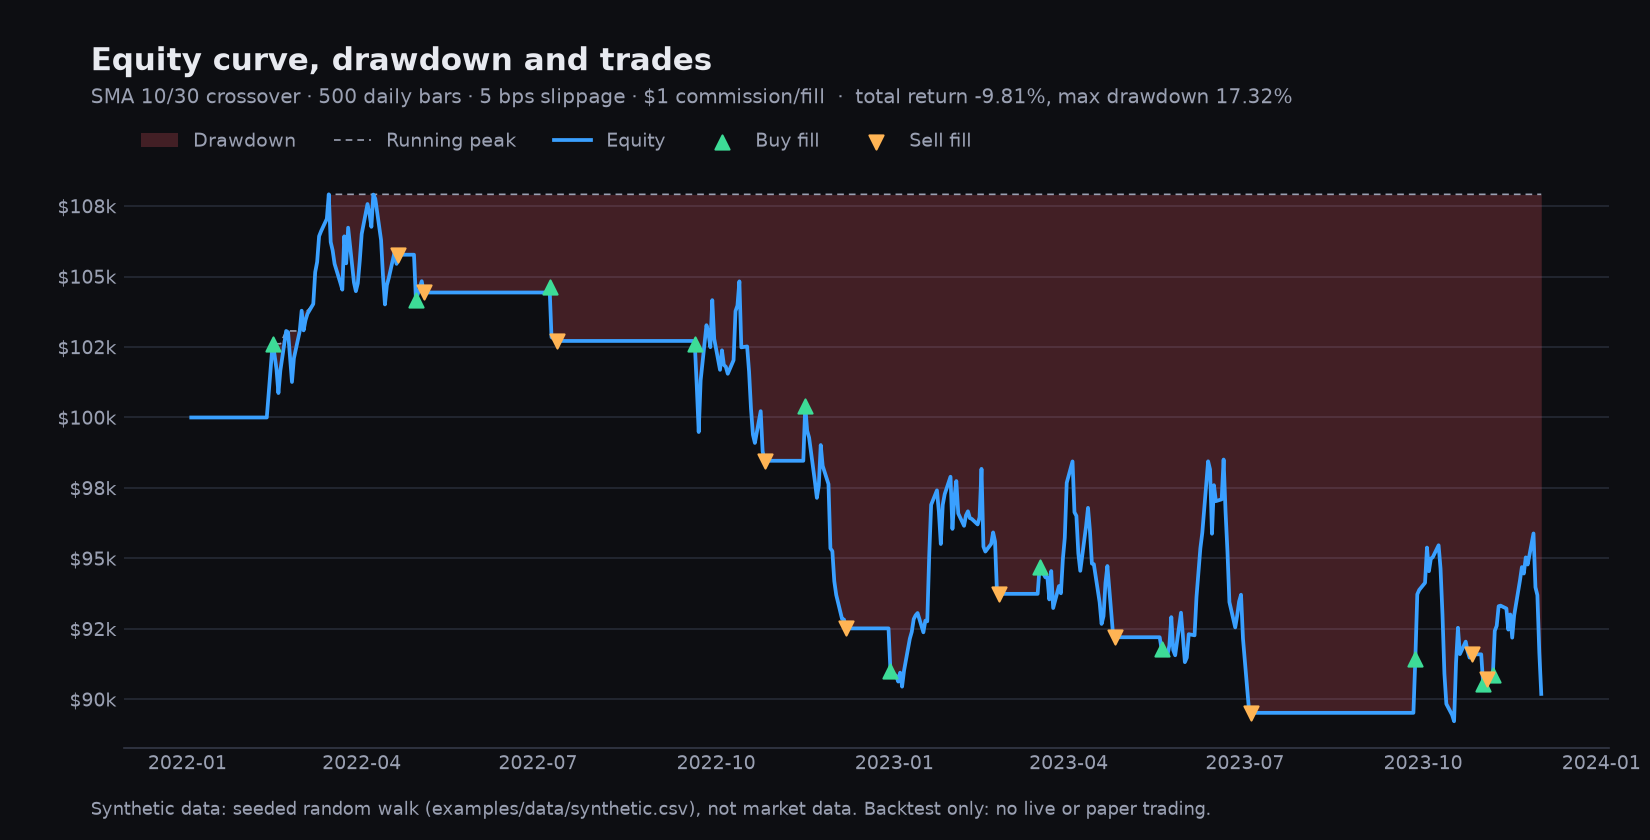
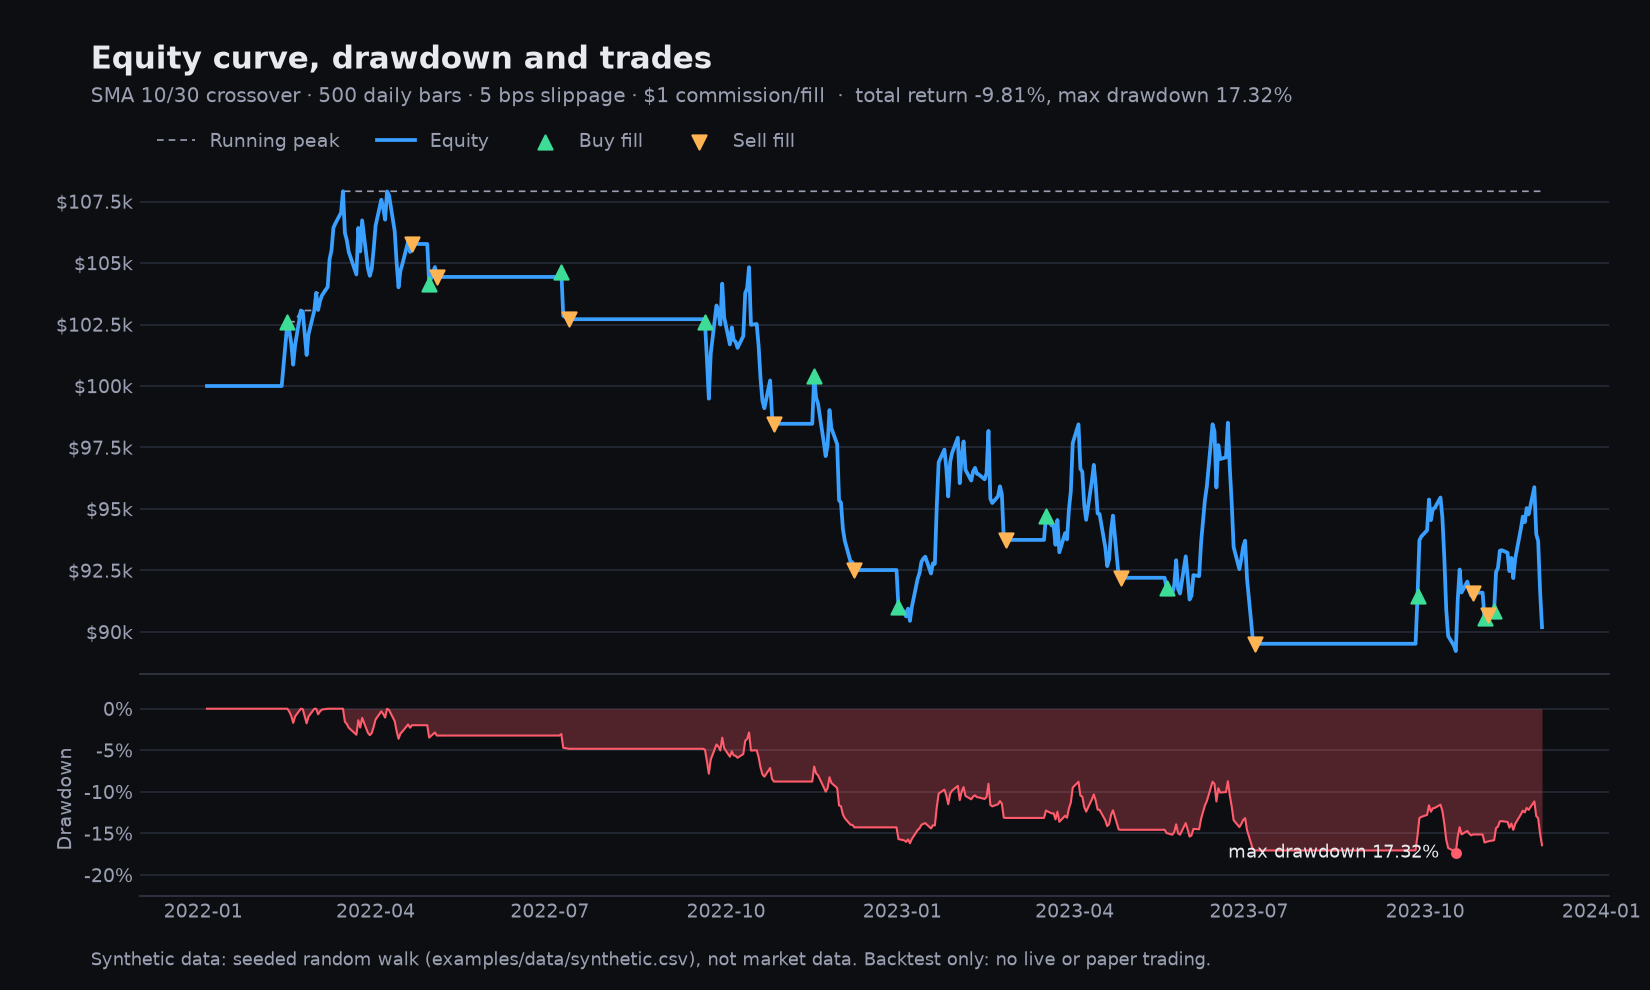
Add drawdown panel, determinism tests and document conventions
- Equity figure gets a separate underwater drawdown panel (asserted to
  agree with compute_metrics' max drawdown) and exact $k tick labels
  (ticks at 102.5k were labelled "$102k").
- tests/test_determinism.py: repeated engine runs, CSV vs in-memory
  feeds and two CLI runs into one SQLite file are identical.
- README and tutorial: margin-free shorts, no end-of-data liquidation,
  inclusive dates, CSV errors, annualisation conventions, and an
  explicit "past results do not predict future results".

Claude-Session: https://claude.ai/code/session_01A42wbaQJVk97N5TsWqXP4G

diff --git a/scripts/make_figures.py b/scripts/make_figures.py
@@ -110,16 +110,41 @@ def fmt_metric_rows(m: Metrics, ending_equity: float) -> list[tuple[str, str]]:
     ]
 
 
+def _money_k(x: float, _pos: object = None) -> str:
+    """Tick label in $k, with a decimal only when the tick needs one."""
+    k = x / 1000
+    return f"${k:,.0f}k" if abs(k - round(k)) < 1e-9 else f"${k:,.1f}k"
+
+
+def _style_axis(ax, c) -> None:
+    ax.set_facecolor(c["bg"])
+    ax.grid(axis="y", color=c["grid"], lw=0.8)
+    ax.set_axisbelow(True)
+    for s in ("top", "right", "left"):
+        ax.spines[s].set_visible(False)
+    ax.spines["bottom"].set_color(c["edge"])
+    ax.tick_params(colors=c["muted"], labelsize=9, length=0)
+
+
 def equity_figure(theme: str, dates, equity, fills, m: Metrics, out: Path) -> None:
     c = THEMES[theme]
-    fig, ax = plt.subplots(figsize=(11, 5.6), dpi=150, facecolor=c["bg"])
-    ax.set_facecolor(c["bg"])
+    fig, (ax, ax_dd) = plt.subplots(
+        2,
+        1,
+        figsize=(11, 6.6),
+        dpi=150,
+        facecolor=c["bg"],
+        sharex=True,
+        gridspec_kw={"height_ratios": [3, 1.15], "hspace": 0.08},
+    )
     peak = []
     hi = equity[0]
     for v in equity:
         hi = max(hi, v)
         peak.append(hi)
-    ax.fill_between(dates, equity, peak, color=c["dd"], alpha=0.22, lw=0, label="Drawdown")
+    # Same definition as compute_metrics: fall from the running peak, in %.
+    drawdown = [(v - p) / p * 100 for v, p in zip(equity, peak, strict=True)]
+
     ax.plot(dates, peak, color=c["muted"], lw=0.8, ls=(0, (4, 3)), label="Running peak")
     ax.plot(dates, equity, color=c["line"], lw=1.8, label="Equity")
     buys = [(d, v) for d, v, s in fills if s == OrderSide.BUY]
@@ -130,24 +155,41 @@ def equity_figure(theme: str, dates, equity, fills, m: Metrics, out: Path) -> No
     ax.scatter(
         *zip(*sells, strict=True), marker="v", s=46, color=c["sell"], zorder=4, label="Sell fill"
     )
-    ax.grid(axis="y", color=c["grid"], lw=0.8)
-    ax.set_axisbelow(True)
-    for s in ("top", "right", "left"):
-        ax.spines[s].set_visible(False)
-    ax.spines["bottom"].set_color(c["edge"])
-    ax.tick_params(colors=c["muted"], labelsize=9, length=0)
-    ax.yaxis.set_major_formatter(lambda x, _: f"${x / 1000:,.0f}k")
+    _style_axis(ax, c)
+    ax.yaxis.set_major_formatter(_money_k)
     ax.legend(
         loc="lower left",
         bbox_to_anchor=(0, 1.0),
         frameon=False,
         labelcolor=c["muted"],
         fontsize=9,
-        ncol=5,
+        ncol=4,
     )
+
+    ax_dd.fill_between(dates, drawdown, 0, color=c["dd"], alpha=0.28, lw=0)
+    ax_dd.plot(dates, drawdown, color=c["dd"], lw=1.0)
+    worst = min(range(len(drawdown)), key=drawdown.__getitem__)
+    # The panel is drawn from the equity curve itself; it must agree with the metric.
+    assert abs(-drawdown[worst] - m.max_drawdown_pct) < 1e-9, (drawdown[worst], m)
+    ax_dd.scatter([dates[worst]], [drawdown[worst]], s=18, color=c["dd"], zorder=4)
+    ax_dd.annotate(
+        f"max drawdown {m.max_drawdown_pct:.2f}%",
+        (dates[worst], drawdown[worst]),
+        xytext=(-8, 0),
+        textcoords="offset points",
+        color=c["fg"],
+        fontsize=8.5,
+        ha="right",
+        va="center",
+    )
+    _style_axis(ax_dd, c)
+    ax_dd.set_ylim(min(drawdown) * 1.3, 0.8)
+    ax_dd.yaxis.set_major_formatter(lambda x, _: f"{x:.0f}%")
+    ax_dd.set_ylabel("Drawdown", color=c["muted"], fontsize=9)
+
     fig.text(
         0.055,
-        0.945,
+        0.955,
         "Equity curve, drawdown and trades",
         color=c["fg"],
         fontsize=15,
@@ -157,7 +199,7 @@ def equity_figure(theme: str, dates, equity, fills, m: Metrics, out: Path) -> No
     )
     fig.text(
         0.055,
-        0.895,
+        0.912,
         f"{RUN_INFO}  ·  total return {m.total_return_pct:.2f}%,"
         f" max drawdown {m.max_drawdown_pct:.2f}%",
         color=c["muted"],
@@ -165,8 +207,8 @@ def equity_figure(theme: str, dates, equity, fills, m: Metrics, out: Path) -> No
         ha="left",
         va="top",
     )
-    fig.text(0.055, 0.03, f"{SYNTH}. {SCOPE}", color=c["muted"], fontsize=8.5, ha="left")
-    fig.subplots_adjust(left=0.075, right=0.975, top=0.80, bottom=0.11)
+    fig.text(0.055, 0.025, f"{SYNTH}. {SCOPE}", color=c["muted"], fontsize=8.5, ha="left")
+    fig.subplots_adjust(left=0.085, right=0.975, top=0.83, bottom=0.095)
     _save(fig, out / f"equity-{theme}.png")
 
 

diff --git a/tests/test_determinism.py b/tests/test_determinism.py
@@ -1,0 +1,82 @@
+"""Same data + same configuration must give identical results."""
+
+import re
+import sqlite3
+import sys
+from pathlib import Path
+
+from helpers import FixedFeed, gapless_random_walk
+from typer.testing import CliRunner
+
+from quantdeck.cli import app
+from quantdeck.data.csv_feed import CSVDataFeed
+from quantdeck.engine import BacktestEngine
+from quantdeck.metrics import compute_metrics, compute_trade_pnls
+
+ROOT = Path(__file__).resolve().parent.parent
+sys.path.insert(0, str(ROOT / "examples"))
+from sma_crossover import SmaCrossoverStrategy  # noqa: E402
+
+CSV = ROOT / "examples/data/synthetic.csv"
+
+
+def _run(feed):
+    eng = BacktestEngine(
+        SmaCrossoverStrategy(),
+        feed,
+        symbol="SYN",
+        start="2022-01-01",
+        end="2030-01-01",
+        slippage_bps=5,
+        commission=1,
+    )
+    curve = eng.run()
+    metrics = compute_metrics([p.equity for p in curve], compute_trade_pnls(eng.fills))
+    return curve, eng.fills, eng.rejected_orders, metrics
+
+
+def test_repeated_runs_are_bit_for_bit_identical():
+    first = _run(CSVDataFeed(CSV))
+    for _ in range(3):
+        assert _run(CSVDataFeed(CSV)) == first  # dataclass equality: exact floats
+
+
+def test_in_memory_and_csv_feeds_agree():
+    bars = CSVDataFeed(CSV).get_bars("SYN", "2022-01-01", "2030-01-01")
+    assert _run(FixedFeed(bars)) == _run(CSVDataFeed(CSV))
+
+
+def test_seeded_helper_data_is_reproducible():
+    assert gapless_random_walk(50, seed=1) == gapless_random_walk(50, seed=1)
+
+
+def test_cli_runs_are_identical_apart_from_the_run_id(tmp_path):
+    db = tmp_path / "r.db"
+    args = ["backtest", str(ROOT / "examples/sma_crossover.py"), "--symbol", "SYN"]
+    args += ["--start", "2022-01-01", "--end", "2030-01-01", "--csv", str(CSV), "--db", str(db)]
+    outputs = []
+    for _ in range(2):
+        result = CliRunner().invoke(app, args)
+        assert result.exit_code == 0, result.output
+        outputs.append(re.sub(r"-[0-9a-f]{8}'", "-<id>'", result.output))
+    assert outputs[0] == outputs[1]
+
+    with sqlite3.connect(db) as conn:
+        runs = [r for (r,) in conn.execute("SELECT DISTINCT run_id FROM equity_curve")]
+        assert len(runs) == 2
+        curves = [
+            conn.execute(
+                "SELECT timestamp, equity FROM equity_curve WHERE run_id = ? ORDER BY id", (r,)
+            ).fetchall()
+            for r in runs
+        ]
+        trades = [
+            conn.execute(
+                "SELECT symbol, side, qty, price, commission, timestamp FROM trades "
+                "WHERE run_id = ? ORDER BY id",
+                (r,),
+            ).fetchall()
+            for r in runs
+        ]
+    assert curves[0] == curves[1] and len(curves[0]) == 500
+    assert trades[0] == trades[1] and trades[0]

diff --git a/README.md b/README.md
@@ -58,7 +58,7 @@ These figures are generated by [`scripts/make_figures.py`](scripts/make_figures.
 <picture>
   <source media="(prefers-color-scheme: dark)" srcset="docs/img/equity-dark.png">
   <source media="(prefers-color-scheme: light)" srcset="docs/img/equity-light.png">
-  <img src="docs/img/equity-light.png" alt="Equity curve of the SMA crossover backtest on synthetic data, with the drawdown from the running peak shaded and buy and sell fills marked. Total return -9.81 percent, maximum drawdown 17.32 percent.">
+  <img src="docs/img/equity-light.png" alt="Two-panel chart of the SMA crossover backtest on synthetic data. Top: equity curve with its running peak and buy and sell fills marked. Bottom: drawdown from the running peak in percent, with the 17.32 percent maximum marked. Total return -9.81 percent.">
 </picture>
 
 <picture>
@@ -79,7 +79,15 @@ These figures are generated by [`scripts/make_figures.py`](scripts/make_figures.
 - Not a portfolio, multi-asset, limit/stop-order or intraday-microstructure simulator. There is no partial fill, market impact, borrow cost, margin, dividend or split handling beyond what the data feed provides (`YFinanceFeed` uses split/dividend-adjusted prices).
 - Not evidence that a strategy will make money. Backtests overfit easily; results on synthetic data mean nothing. Not financial advice.
 
-Behaviours worth knowing: a buy you cannot afford at the fill price is rejected (see `engine.rejected_orders`); sells beyond your position are rejected unless `allow_short=True`; orders placed on the last bar never fill; commission is a flat amount per fill.
+Behaviours worth knowing:
+
+- A buy you cannot afford at the fill price is rejected, not resized (see `engine.rejected_orders`). Sells beyond your position are rejected unless `allow_short=True`.
+- Short selling has no margin requirement or borrow cost; a losing short can take equity below zero, which the metrics treat as ruin (-100%).
+- Orders placed on the last bar never fill, and an open position is **not** liquidated at the end: it is marked at the last close in the equity curve but is not counted as a trade in win rate or profit factor.
+- Commission is a flat amount per fill. Slippage is `slippage_bps` against you on the open price.
+- `--start` and `--end` are inclusive for both the CSV and the Yahoo Finance feed. Bad CSV input fails with the file name, line and column (details in the [tutorial](manual/tutorial.md#6-data-files-and-date-ranges)).
+- Same data and settings give bit-for-bit identical results; `tests/test_determinism.py` checks this, including two CLI runs writing to the same SQLite file.
+- Metric definitions and annualisation (252 periods per year by default) are listed in the [tutorial](manual/tutorial.md#5-metric-conventions).
 
 ## Live demo
 
@@ -172,7 +180,7 @@ Here's what each part of that command means:
 | `examples/sma_crossover.py` | the file containing the strategy to test |
 | `--symbol AAPL` | the stock ticker to test against — Apple, in this case |
 | `--start 2023-01-01` | the first day of historical data to include |
-| `--end 2023-12-31` | the last day of historical data to include |
+| `--end 2023-12-31` | the last day of historical data to include (inclusive) |
 
 Behind the scenes, QuantDeck fetches AAPL's real daily prices for 2023 from Yahoo Finance (no account or API key needed), replays the strategy's rules day-by-day, and prints a results table. It takes a few seconds.
 
@@ -295,6 +303,7 @@ Terms you'll see throughout this project:
 
 - **`command not found: quantdeck`** — you probably haven't activated the virtual environment in this terminal. Run `source .venv/bin/activate` (Mac/Linux) from inside the `quantdeck` folder.
 - **`No data returned for '<SYMBOL>' between ...`** — check the ticker symbol is correct and that the date range includes trading days (e.g., not entirely a weekend or a date range in the future).
+- **`<file>.csv: line N: ... is not a number`** (or `missing column(s)`, `could not parse timestamp`) — the CSV needs a header `timestamp,open,high,low,close,volume` and a number in every price/volume cell; the message points at the first bad line.
 - **`No Strategy subclass found in <file>`** — your strategy file needs a class that inherits from `Strategy` (e.g., `class MyStrategy(Strategy):`).
 - **Install fails with a Python version error** — re-check `python3 --version` is 3.10 or newer (see [Prerequisites](#prerequisites)), and make sure you created the virtual environment with that version.
 
@@ -323,7 +332,7 @@ python scripts/make_figures.py      # regenerate the images in docs/img/ (needs 
 
 ## Important disclaimer
 
-QuantDeck is an educational and research tool. Backtested performance does **not** guarantee future results — real markets involve costs, risks, and behavior that a simulation can't fully capture. Nothing in this project is financial advice. If you ever move from backtesting to trading with real money, start with a broker's paper-trading (fake money) mode first, and only risk money you can afford to lose.
+QuantDeck is an educational and research tool. It only backtests: it has no live or paper-trading engine. Past results, simulated or real, do **not** predict future results, and backtested performance does **not** guarantee them — real markets involve costs, risks, and behavior that a simulation can't fully capture. Nothing in this project is financial advice. If you ever move from backtesting to trading with real money, start with a broker's paper-trading (fake money) mode first, and only risk money you can afford to lose.
 
 ---
 

diff --git a/manual/tutorial.md b/manual/tutorial.md
@@ -55,8 +55,11 @@ Consequences:
 
 - An order placed on the last bar never fills.
 - `cash // bar.close` can be too much: the fill price is the next open plus slippage. A buy that costs more than your cash is **rejected**, not resized. The bundled SMA example originally sized with 100% of cash and had 7 buy orders rejected on the synthetic series; it now keeps a 5% buffer. Check `engine.rejected_orders` when results look too quiet.
-- Selling more than you hold is rejected unless `allow_short=True`.
+- Selling more than you hold is rejected unless `allow_short=True`. A sell that overshoots the position only by float rounding (e.g. fractional sizes such as `0.1 + 0.2`) sells exactly what you hold, and a position left with only rounding dust is set to exactly 0.
+- With `allow_short=True` there is no margin requirement and no borrow cost. A short that runs against you can push equity below zero, and buying back is rejected if cash cannot cover it.
+- Nothing is liquidated at the end of the data: an open position is marked at the last close in the equity curve, but it is not a completed trade, so it does not count towards win rate, profit factor or the number of trades.
 - `buy(0)`, negative or NaN quantities raise `ValueError`.
+- The data feed must return bars labelled with the engine's `symbol`; a mismatch raises `ValueError` (previously every order silently stayed unfilled).
 
 ## 3. Run it and look at the results
 
@@ -85,7 +88,10 @@ quantdeck backtest my_strategy.py --symbol SYN --start 2022-01-01 --end 2030-01-
 
 ## 4. Check your own strategy for look-ahead bias
 
-The engine prevents the usual mistakes, but a strategy can still cheat through its own code (e.g. loading the whole CSV and indexing into the future). A cheap sanity test: run it on a series where every bar opens at the same price and closes alternately up and down. A strategy that only uses information available at bar close cannot earn a systematic profit there. `tests/test_engine_correctness.py::test_peeking_style_strategy_earns_nothing` shows the pattern.
+The engine prevents the usual mistakes, but a strategy can still cheat through its own code (e.g. loading the whole CSV and indexing into the future). Two cheap checks:
+
+- **Change the future, compare the past.** Run the strategy twice, the second time with every bar after some index `k` replaced by unrelated prices. The orders placed on bars `0..k`, the fills up to bar `k` and the equity curve up to bar `k` must be identical. `tests/test_lookahead_and_edges.py::test_changing_the_future_does_not_change_the_past` does this for the bundled strategies; it fails if the engine hands `on_bar` the next bar instead of the current one.
+- **A series with nothing to predict.** Every bar opens at the same price and closes alternately up and down. A strategy that only uses information available at bar close cannot earn a systematic profit there. `tests/test_engine_correctness.py::test_peeking_style_strategy_earns_nothing` shows the pattern.
 
 ## 5. Metric conventions
 
@@ -99,6 +105,18 @@ The engine prevents the usual mistakes, but a strategy can still cheat through i
 | Calmar | CAGR / max drawdown |
 | win rate, profit factor | from FIFO-matched round trips, net of commission |
 
-Edge cases: zero-variance curves give 0.0 for the ratios; a curve that reaches zero or negative equity is treated as ruin (-100% return, 100% drawdown); zero drawdown gives Calmar 0.0; no losing trades gives an infinite profit factor. `periods_per_year` defaults to 252, so pass it explicitly for non-daily data.
+Annualisation: every annualised figure uses `periods_per_year`, which defaults to 252 (daily bars), so pass it explicitly for other bar sizes. CAGR counts `n - 1` periods for an `n`-point curve, so 253 daily equity points are exactly one year. There is no simple-return ("non-compounded") CAGR option.
+
+Edge cases: zero-variance curves give 0.0 for the ratios; a curve that reaches zero or negative equity is treated as ruin (-100% return, -100% CAGR, 100% drawdown; later points are ignored); zero drawdown gives Calmar 0.0; no losing trades gives an infinite profit factor. Very short samples annualise to extreme CAGRs; one that overflows a float (e.g. +9,900% in one daily bar) is reported as `inf` instead of raising. `periods_per_year <= 0` or a non-finite `risk_free_rate` raise `ValueError`.
+
+## 6. Data files and date ranges
+
+`CSVDataFeed` needs the columns `timestamp,open,high,low,close,volume` (header case and surrounding spaces do not matter; extra columns are ignored). A missing column, an unparseable timestamp or a blank / non-numeric value raises `CSVFormatError` (a `ValueError`) naming the file and line, for example:
+
+```
+bars.csv: line 3: high value (blank) is not a number (1 bad value(s) in column high)
+```
+
+`start` and `end` are inclusive for both `CSVDataFeed` and `YFinanceFeed`. A date-only `end` such as `"2023-12-29"` includes every bar on that day; an `end` with a time of day is an exact cut-off. (Yahoo's own `end` is exclusive; the feed requests one extra day and trims.)
 
 See [api.md](api.md) for every public signature.
